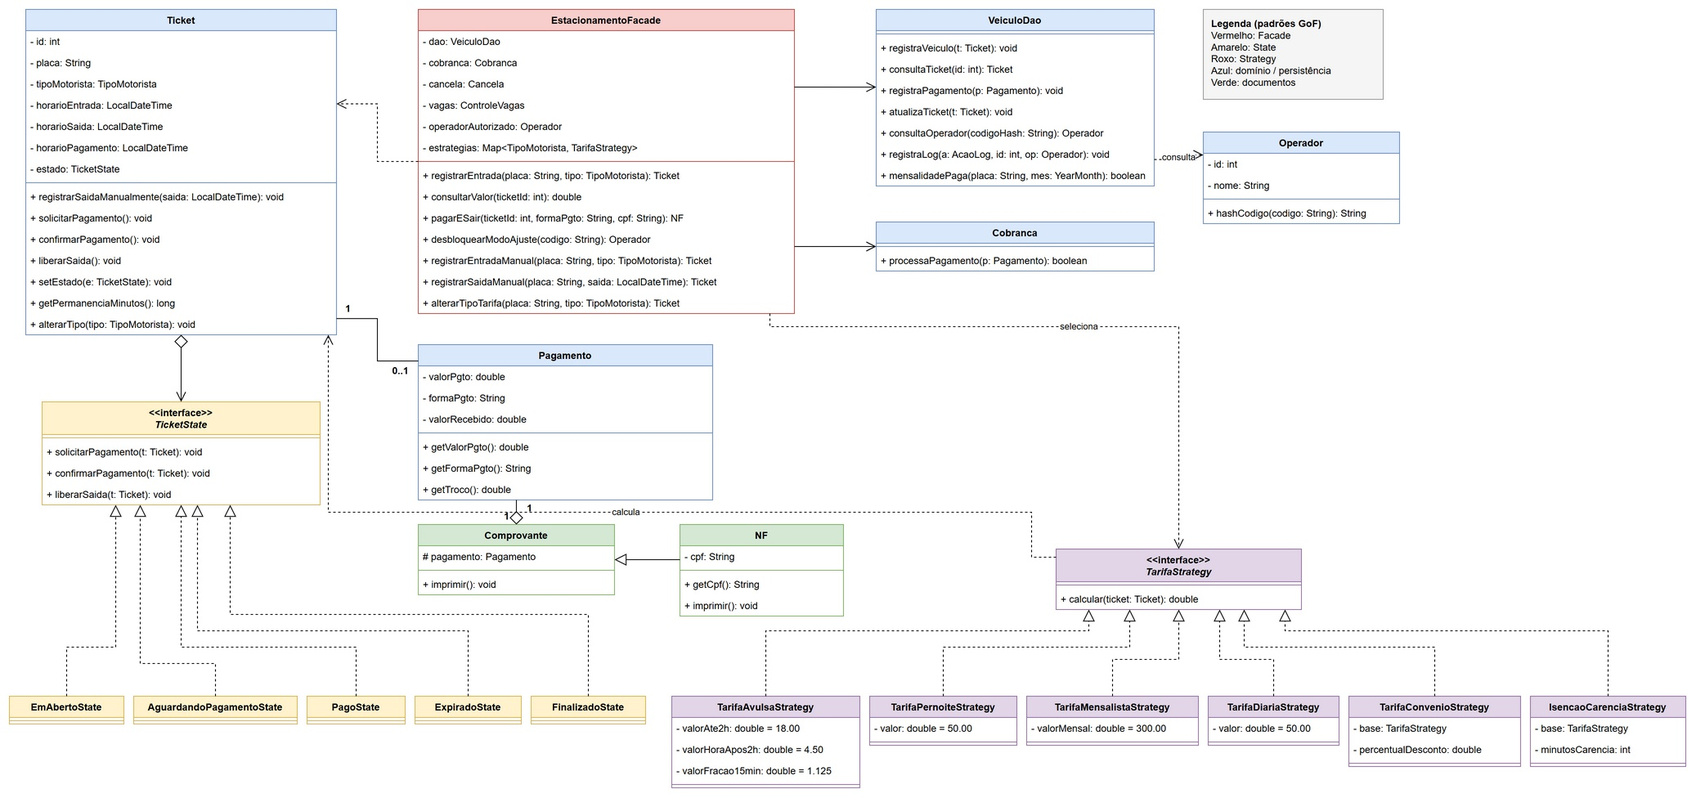
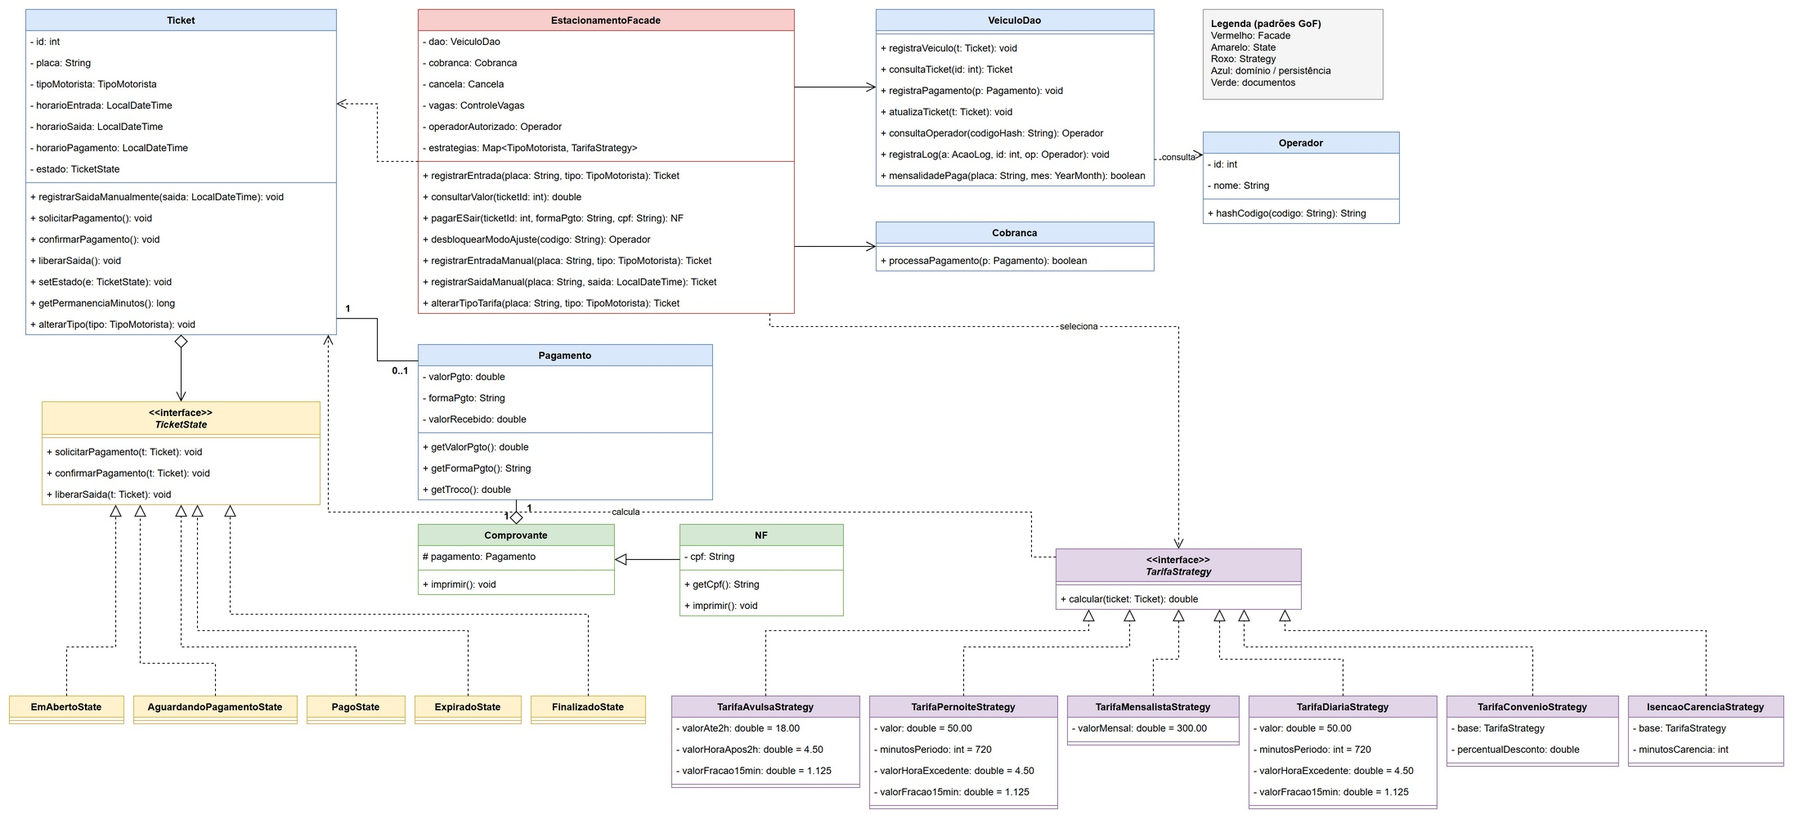
Excedente na diária e no pernoite e tela inicial no README
- Diária e pernoite: R$ 50,00 por até 12 h; o tempo que passar é cobrado
  a R$ 4,50/h em frações de 15 min (R$ 1,125 por fração)
- Atributo valorFracao15min nas duas tarifas (código e diagrama de classes)
- Testes do excedente (85 testes, todos aprovados)
- Documentação atualizada (RN-04, RN-13, CT-05, CT-21 e cobertura)
- README: imagem da tela inicial do totem no lugar do diagrama de casos de uso

diff --git a/src/test/java/estacionamento/TarifaAvulsaStrategyTest.java b/src/test/java/estacionamento/TarifaAvulsaStrategyTest.java
@@ -38,11 +38,12 @@ class TarifaAvulsaStrategyTest {
         assertEquals(esperado, comCarencia.calcular(TicketFactory.comPermanencia(minutos)), 0.001);
     }
 
-    @Test
-    @DisplayName("CT-05 - pernoite cobra R$ 50,00 (RN-04)")
-    void pernoite() {
-        assertEquals(50.00, new TarifaPernoiteStrategy()
-                .calcular(TicketFactory.comPermanencia(600, TipoMotorista.PERNOITE)), 0.001);
+    @ParameterizedTest(name = "pernoite: {0} min -> R$ {1}")
+    @CsvSource({ "30, 50.00", "600, 50.00", "720, 50.00", "721, 51.13", "736, 52.25", "780, 54.50", "960, 68.00" })
+    @DisplayName("CT-05 - pernoite: R$ 50,00 por 12 h + excedente em frações de 15 min (RN-04)")
+    void pernoite(long minutos, double esperado) {
+        assertEquals(esperado, new TarifaPernoiteStrategy()
+                .calcular(TicketFactory.comPermanencia(minutos, TipoMotorista.PERNOITE)), 0.001);
     }
 
     @Test
@@ -64,12 +65,12 @@ class TarifaAvulsaStrategyTest {
         assertThrows(IllegalArgumentException.class, () -> new TarifaConvenioStrategy(tarifa, 120));
     }
 
-    @Test
-    @DisplayName("Diária (06h-18h) cobra R$ 50,00")
-    void diaria() {
+    @ParameterizedTest(name = "diária: {0} min -> R$ {1}")
+    @CsvSource({ "30, 50.00", "600, 50.00", "720, 50.00", "721, 51.13", "735, 51.13", "736, 52.25", "780, 54.50", "960, 68.00" })
+    @DisplayName("CT-21 - diária: R$ 50,00 por 12 h + excedente em frações de 15 min (RN-13)")
+    void diaria(long minutos, double esperado) {
         TarifaStrategy diaria = new TarifaDiariaStrategy();
-        assertEquals(50.00, diaria.calcular(TicketFactory.comPermanencia(30, TipoMotorista.DIARIA)), 0.001);
-        assertEquals(50.00, diaria.calcular(TicketFactory.comPermanencia(600, TipoMotorista.DIARIA)), 0.001);
+        assertEquals(esperado, diaria.calcular(TicketFactory.comPermanencia(minutos, TipoMotorista.DIARIA)), 0.001);
     }
 
     @Test

diff --git a/src/main/java/estacionamento/domain/tarifa/TarifaDiariaStrategy.java b/src/main/java/estacionamento/domain/tarifa/TarifaDiariaStrategy.java
@@ -4,8 +4,9 @@ import estacionamento.domain.Ticket;
 import java.time.LocalTime;
 
 /**
- * Diaria: periodo diurno das 06:00 as 18:00 com valor fixo de R$ 50,00
- * (complementa o pernoite, que cobre o periodo noturno das 18:00 as 06:00).
+ * RN-13: diaria — periodo diurno das 06:00 as 18:00 (12 h) por R$ 50,00.
+ * O tempo que passar das 12 h e cobrado a R$ 4,50/h em fracoes de 15 min
+ * (R$ 1,125 por fracao iniciada), como o excedente da tarifa avulsa.
  */
 public class TarifaDiariaStrategy implements TarifaStrategy {
 
@@ -13,11 +14,18 @@ public class TarifaDiariaStrategy implements TarifaStrategy {
     public static final LocalTime FIM = LocalTime.of(18, 0);
 
     private final double valor = 50.00;
+    private final int minutosPeriodo = 12 * 60;
+    private final double valorHoraExcedente = 4.50;
+    private final double valorFracao15min = valorHoraExcedente / 4; // 1.125
 
     @Override
     public double calcular(Ticket ticket) {
-        return valor;
+        long excedente = ticket.getPermanenciaMinutos() - minutosPeriodo;
+        return TarifaStrategy.arredondar(valor + TarifaStrategy.excedenteEmFracoes(excedente, valorFracao15min));
     }
 
     public double getValor() { return valor; }
+    public int getMinutosPeriodo() { return minutosPeriodo; }
+    public double getValorHoraExcedente() { return valorHoraExcedente; }
+    public double getValorFracao15min() { return valorFracao15min; }
 }

diff --git a/src/main/java/estacionamento/domain/tarifa/TarifaPernoiteStrategy.java b/src/main/java/estacionamento/domain/tarifa/TarifaPernoiteStrategy.java
@@ -2,15 +2,26 @@ package estacionamento.domain.tarifa;
 
 import estacionamento.domain.Ticket;
 
-/** RN-04: pernoite (periodo noturno 18:00-06:00) com valor fixo de R$ 50,00. */
+/**
+ * RN-04: pernoite — periodo noturno das 18:00 as 06:00 (12 h) por R$ 50,00.
+ * O tempo que passar das 12 h e cobrado a R$ 4,50/h em fracoes de 15 min
+ * (R$ 1,125 por fracao iniciada), como o excedente da tarifa avulsa.
+ */
 public class TarifaPernoiteStrategy implements TarifaStrategy {
 
     private final double valor = 50.00;
+    private final int minutosPeriodo = 12 * 60;
+    private final double valorHoraExcedente = 4.50;
+    private final double valorFracao15min = valorHoraExcedente / 4; // 1.125
 
     @Override
     public double calcular(Ticket ticket) {
-        return valor;
+        long excedente = ticket.getPermanenciaMinutos() - minutosPeriodo;
+        return TarifaStrategy.arredondar(valor + TarifaStrategy.excedenteEmFracoes(excedente, valorFracao15min));
     }
 
     public double getValor() { return valor; }
+    public int getMinutosPeriodo() { return minutosPeriodo; }
+    public double getValorHoraExcedente() { return valorHoraExcedente; }
+    public double getValorFracao15min() { return valorFracao15min; }
 }

diff --git a/src/main/java/estacionamento/domain/tarifa/TarifaStrategy.java b/src/main/java/estacionamento/domain/tarifa/TarifaStrategy.java
@@ -13,4 +13,16 @@ public interface TarifaStrategy {
     static double arredondar(double valor) {
         return BigDecimal.valueOf(valor).setScale(2, RoundingMode.HALF_UP).doubleValue();
     }
+
+    /**
+     * Valor do tempo que passou do periodo coberto pela tarifa, cobrado em
+     * fracoes de 15 minutos (cada fracao iniciada custa {@code valorFracao15min}).
+     */
+    static double excedenteEmFracoes(long minutosExcedentes, double valorFracao15min) {
+        if (minutosExcedentes <= 0) {
+            return 0.0;
+        }
+        long fracoes = (long) Math.ceil(minutosExcedentes / 15.0);
+        return fracoes * valorFracao15min;
+    }
 }

diff --git a/docs/Documentacao_Monolitico_Estacionamento.md b/docs/Documentacao_Monolitico_Estacionamento.md
@@ -71,7 +71,7 @@ O sistema controla a permanência de veículos em um estacionamento. Na entrada,
 
 ### 2.2 Dentro do escopo (In Scope)
 - Registro de entrada do veículo com horário (ticket).
-- Cálculo do valor por tarifa: avulso (2 primeiras horas + adicional por hora/fração), diária (06h–18h), pernoite (18h–06h) e mensalista (uma vez por mês).
+- Cálculo do valor por tarifa: avulso (2 primeiras horas + adicional por hora/fração), diária (06h–18h) e pernoite (18h–06h), cada uma cobrindo 12 h com excedente em frações de 15 min, e mensalista (uma vez por mês).
 - Registro de pagamento em dinheiro (valor devido, valor recebido e troco).
 - Emissão de comprovante e de nota fiscal (com CPF, quando informado).
 - Liberação da saída após pagamento.
@@ -176,7 +176,7 @@ O sistema controla a permanência de veículos em um estacionamento. Na entrada,
 - **Critérios de aceite:**
   - [ ] Até 2 h → R$ 18,00.
   - [ ] 2 h 30 min → R$ 18,00 + 2 frações = R$ 20,25.
-  - [ ] Pernoite → R$ 50,00; diária → R$ 50,00.
+  - [ ] Pernoite e diária até 12 h → R$ 50,00; 16 h → R$ 50,00 + 16 frações = R$ 68,00.
   - [ ] Mensalista → R$ 300,00 na primeira saída do mês; R$ 0,00 nas demais saídas do mesmo mês.
 - **Requisitos relacionados:** RN-01 a RN-07, RF-08
 
@@ -417,7 +417,7 @@ O sistema controla a permanência de veículos em um estacionamento. Na entrada,
 | RN-01 | Tarifa avulsa: R$ 18,00 para permanência de até 2 horas. | `Tarifa.avulso = 18.00` (premissa: cobre 2 h) | RF-02, RF-08 |
 | RN-02 | Após 2 horas: R$ 4,50 por hora adicional, cobrada em frações de 15 minutos (R$ 1,125 por fração iniciada; total arredondado a 2 casas). | `valorHoraApos2h = 4.50`, `valorFracao15min` | RF-02 |
 | RN-03 | Mensalista: R$ 300,00 pagos uma vez por mês — cobrados na primeira saída do mês; nas demais saídas do mesmo mês não há cobrança, e o mensalista não paga tarifa avulsa. | `Tarifa.mensalista = 300.00` | RF-08 |
-| RN-04 | Pernoite: R$ 50,00 fixos para o período noturno (18:00h–06:00h). O tipo é escolhido pelo motorista na entrada (ou corrigido pelo Operador de Caixa, RF-11); o sistema não confere o horário. | `Tarifa.pernoite = 50.00` | RF-08 |
+| RN-04 | Pernoite: R$ 50,00 para o período noturno (18:00h–06:00h, 12 h); acima de 12 h, o excedente é cobrado a R$ 4,50/h em frações de 15 min (R$ 1,125 por fração iniciada). O tipo é escolhido pelo motorista na entrada (ou corrigido pelo Operador de Caixa, RF-11); o sistema não confere o horário. | `Tarifa.pernoite = 50.00` | RF-08 |
 | RN-05 | A cancela só é liberada se o ticket estiver **Pago** e dentro do prazo de saída. Tickets Em Aberto, Aguardando Pagamento ou Expirados não liberam a saída. | Padrão State; UC "Liberar Saída" | RF-06 |
 | RN-06 | Após o pagamento, o motorista tem uma tolerância para sair de 15 min; excedida, o ticket fica **Expirado** e é cobrado o período adicional. | Padrão State | RF-06 |
 | RN-07 | Isenção por carência: permanência até 15 minutos não é cobrada (vale para as tarifas avulsa e convênio). | Padrão Strategy (`IsencaoCarenciaStrategy`) | RF-02 |
@@ -426,7 +426,7 @@ O sistema controla a permanência de veículos em um estacionamento. Na entrada,
 | RN-10 | O horário de saída não pode ser anterior ao horário de entrada; um veículo não pode ter dois tickets em aberto. | `registrarSaidaManualmente`, `setHorarioSaida` | RF-01, RF-07, RF-09 |
 | RN-11 | Um ticket só pode ser pago uma vez. | Padrão State (`PagoState` recusa novo pagamento) | RF-03 |
 | RN-12 | Ações do Operador de Caixa (registrar entrada sem ticket, ajustar o horário de saída e alterar a tarifa) só podem ser feitas no totem desbloqueado por código de autorização válido. O horário de entrada nunca é alterado pelo operador. O modo de ajuste é encerrado ao fim de cada ação, cada ação é registrada em log com operador, ticket, ação e data/hora, e o pagamento é sempre feito pelo motorista no totem — o ajuste não libera a saída. | UC-05, UC-06 (`<<extend>>`) e UC-07; ator Operador de Caixa | RF-07, RF-09, RF-10, RF-11 |
-| RN-13 | Diária: R$ 50,00 fixos para o período diurno (06:00h–18:00h). O tipo é escolhido pelo motorista na entrada (ou corrigido pelo Operador de Caixa, RF-11); o sistema não confere o horário. | `TarifaDiariaStrategy` | RF-08 |
+| RN-13 | Diária: R$ 50,00 para o período diurno (06:00h–18:00h, 12 h); acima de 12 h, o excedente é cobrado a R$ 4,50/h em frações de 15 min (R$ 1,125 por fração iniciada). O tipo é escolhido pelo motorista na entrada (ou corrigido pelo Operador de Caixa, RF-11); o sistema não confere o horário. | `TarifaDiariaStrategy` | RF-08 |
 | RN-14 | O pagamento é aceito somente em dinheiro; o sistema não usa APIs externas (cartão/PIX). Valor inserido menor que o devido é recusado; valor maior gera troco. | Decisão de projeto; `Cobranca` | RF-03 |
 
 ---
@@ -734,12 +734,18 @@ classDiagram
     }
     class TarifaPernoiteStrategy {
         -double valor = 50.00
+        -int minutosPeriodo = 720
+        -double valorHoraExcedente = 4.50
+        -double valorFracao15min = 1.125
     }
     class TarifaMensalistaStrategy {
         -double valorMensal = 300.00
     }
     class TarifaDiariaStrategy {
         -double valor = 50.00
+        -int minutosPeriodo = 720
+        -double valorHoraExcedente = 4.50
+        -double valorFracao15min = 1.125
     }
     class TarifaConvenioStrategy {
         -double percentualDesconto
@@ -879,7 +885,7 @@ sequenceDiagram
 
 | Padrão GoF | Categoria | Problema que resolve no projeto | Classes / arquivos envolvidos |
 |---|---|---|---|
-| Strategy | Comportamental | Elimina cadeias de `if/else` no cálculo do valor por tempo e perfil; novas tarifas sem alterar o caixa. | `TarifaStrategy`, `TarifaAvulsaStrategy`, `TarifaPernoiteStrategy`, `TarifaMensalistaStrategy`, `TarifaDiariaStrategy` (R$ 50, 06h–18h), `TarifaConvenioStrategy`, `IsencaoCarenciaStrategy` |
+| Strategy | Comportamental | Elimina cadeias de `if/else` no cálculo do valor por tempo e perfil; novas tarifas sem alterar o caixa. | `TarifaStrategy`, `TarifaAvulsaStrategy`, `TarifaPernoiteStrategy`, `TarifaMensalistaStrategy`, `TarifaDiariaStrategy` (R$ 50 por 12 h + excedente), `TarifaConvenioStrategy`, `IsencaoCarenciaStrategy` |
 | State | Comportamental | Garante transições rígidas do ticket e impede a abertura da cancela em estados inválidos. | `Ticket`, `TicketState`, `EmAbertoState`, `AguardandoPagamentoState`, `PagoState`, `ExpiradoState`, `FinalizadoState` |
 | Facade | Estrutural | Oferece uma única operação para totem/app/caixa, escondendo a coordenação de ticket, tarifa, pagamento, NF, cancela e vagas. | `EstacionamentoFacade`, `VeiculoDao`, `Cobranca`, `NF`, `Cancela`, `ControleVagas` |
 
@@ -1216,7 +1222,7 @@ public class EstacionamentoFacade {
 
 | Classe testada | Classe de teste (JUnit) | Cenários cobertos | Requisito(s) / Regra(s) relacionado(s) | Resultado |
 |---|---|---|---|---|
-| `TarifaAvulsaStrategy` (e demais estratégias) — cálculo do valor | `TarifaAvulsaStrategyTest` | `@ParameterizedTest` com `@CsvSource`: 30 min → 18,00; 120 min (limite) → 18,00; 121 min → 19,13; 150 min → 20,25; 180 min → 22,50; carência de 10 min → 0,00; pernoite e diária → 50,00; mensalista → 300,00 / 0,00 com o mês pago; convênio −10% | RF-02, RF-08, RN-01 a RN-04, RN-07, RN-08, RN-13, RNF-02 | Aprovado |
+| `TarifaAvulsaStrategy` (e demais estratégias) — cálculo do valor | `TarifaAvulsaStrategyTest` | `@ParameterizedTest` com `@CsvSource`: 30 min → 18,00; 120 min (limite) → 18,00; 121 min → 19,13; 150 min → 20,25; 180 min → 22,50; carência de 10 min → 0,00; pernoite e diária: 720 min → 50,00, 721 min → 51,13, 960 min (16 h) → 68,00; mensalista → 300,00 / 0,00 com o mês pago; convênio −10% | RF-02, RF-08, RN-01 a RN-04, RN-07, RN-08, RN-13, RNF-02 | Aprovado |
 | `Ticket` + estados — ciclo de vida | `TicketStateTest` | Novo ticket em `EmAbertoState`; liberar saída em aberto lança `IllegalStateException` (`assertThrows`); fluxo completo até `FinalizadoState` (`assertInstanceOf`); pagar duas vezes é recusado; saída após tolerância leva a `ExpiradoState`; saída anterior à entrada é recusada | RF-06, RF-07, RN-05, RN-06, RN-10, RN-11 | Aprovado |
 | `EstacionamentoFacade` — orquestração | `EstacionamentoFacadeTest` | Pagamento aprovado: `verify(dao).registraPagamento`, `verify(cancela).abrir()`; pagamento recusado: `verify(cancela, never()).abrir()` e ticket não fica Pago; estratégia correta escolhida pelo perfil; ações do operador (código inválido, entrada manual, ajuste de saída, alteração de tarifa). `@Mock`, `@InjectMocks`, `@BeforeEach` | RF-03, RF-04, RF-06, RF-07, RF-09 a RF-11, RN-05, RN-09, RN-12 | Aprovado |
 | `NF` — nota fiscal | `NFTest` | NF com CPF válido; NF sem CPF (CPF `null` permitido); CPF inválido lança exceção; valores herdados do pagamento; dinheiro com troco; forma diferente de dinheiro recusada | RF-04, RN-09, RN-14, RNF-L02 | Aprovado |
@@ -1249,19 +1255,19 @@ class TicketStateTest {
 }
 ```
 
-**Execução:** `mvn test` (ou pela IDE: *Run Tests*). **Resultado em 20/11/2026: 72 testes, 72 aprovados, 0 reprovados** (`EstacionamentoFacadeTest` 21, `TarifaAvulsaStrategyTest` 19, `TicketStateTest` 16, `NFTest` 11, `VeiculoDaoTest` 5). **Cobertura (JaCoCo 0.8.13, relatório em `target/site/jacoco/index.html`):**
+**Execução:** `mvn test` (ou pela IDE: *Run Tests*). **Resultado em 21/11/2026: 85 testes, 85 aprovados, 0 reprovados** (`EstacionamentoFacadeTest` 21, `TarifaAvulsaStrategyTest` 32, `TicketStateTest` 16, `NFTest` 11, `VeiculoDaoTest` 5). **Cobertura (JaCoCo 0.8.13, relatório em `target/site/jacoco/index.html`):**
 
 | Pacote | Linhas cobertas | Desvios (if/else) cobertos |
 |---|---|---|
 | `domain` | 90% (169/188) | 77% |
 | `domain.estado` | 88% (57/65) | 88% |
-| `domain.tarifa` | 82% (37/45) | 90% |
+| `domain.tarifa` | 80% (47/59) | 92% |
 | `facade` | 86% (114/133) | 75% |
 | `dao` | 82% (143/174) | 94% |
 | `service` | 66% (21/32) | 57% |
 | `ui` (telas JavaFX) | 0% (sem testes automatizados; verificadas pelos casos CT-XX no totem) | 0% |
 
-Classes de domínio (`domain`, `domain.estado` e `domain.tarifa`): **88% das linhas (263/298)** — atende ao RNF-06 (≥ 70%). Sem a camada de telas, a cobertura do sistema é de 85% das linhas.
+Classes de domínio (`domain`, `domain.estado` e `domain.tarifa`): **88% das linhas (273/312)** — atende ao RNF-06 (≥ 70%). Sem a camada de telas, a cobertura do sistema é de 85% das linhas.
 
 ### 7.2 Ambientes de teste
 
@@ -1282,7 +1288,7 @@ Classes de domínio (`domain`, `domain.estado` e `domain.tarifa`): **88% das lin
 | CT-02 | RF-01, RN-10 | Entrada duplicada | Veículo já com ticket aberto | 1. Informar a mesma placa | Novo ticket recusado | A executar |
 | CT-03 | RF-02, RN-01 | Avulso até 2 h (inclusive limite de 120 min) | Ticket com 30 min / 120 min | 1. Solicitar pagamento | R$ 18,00 | A executar |
 | CT-04 | RF-02, RN-02 | Avulso acima de 2 h | Ticket com 150 min / 180 min | 1. Solicitar pagamento | R$ 20,25 / R$ 22,50 | A executar |
-| CT-05 | RF-08, RN-04 | Pernoite | Ticket de pernoite | 1. Solicitar pagamento | R$ 50,00 | A executar |
+| CT-05 | RF-08, RN-04 | Pernoite | Ticket de pernoite com 10 h / 16 h | 1. Solicitar pagamento | R$ 50,00 / R$ 68,00 (excedente de 4 h em frações de 15 min) | A executar |
 | CT-06 | RF-08, RN-03 | Mensalista | Motorista mensalista com a mensalidade do mês já paga | 1. Solicitar saída | Sem cobrança (R$ 0,00); saída liberada | A executar |
 | CT-07 | RF-02, RN-07 | Isenção por carência | Ticket dentro da carência | 1. Solicitar pagamento | R$ 0,00 | A executar |
 | CT-08 | RF-03, RF-04, RF-05, RF-06 | Pagamento aprovado | Ticket Aguardando Pagamento | 1. Pagar 2. Informar CPF | Comprovante e NF emitidos; ticket Pago; cancela aberta | A executar |
@@ -1298,7 +1304,7 @@ Classes de domínio (`domain`, `domain.estado` e `domain.tarifa`): **88% das lin
 | CT-18 | RF-03, RF-04, RF-05 | Pagamento em dinheiro no totem com troco | Ticket Aguardando Pagamento com valor de R$ 20,25 | 1. Motorista seleciona a forma de pagamento "Dinheiro" no totem 2. Insere R$ 50,00 | Troco de R$ 29,75 entregue; pagamento registrado; ticket Pago; comprovante e NF emitidos | A executar |
 | CT-19 | RF-10, RN-12 | Código de autorização inválido | Totem em operação normal | 1. Informar um código de autorização inválido no totem | Mensagem de erro; totem continua bloqueado para ajustes; nenhum horário alterado | A executar |
 | CT-20 | RF-11, RN-12 | Alteração de tarifa pelo operador | Ticket avulso Em Aberto; operador com código válido | 1. Operador informa o código 2. Digita a placa 3. Escolhe a nova tarifa | Horário de entrada exibido e inalterado; tarifa alterada; valor recalculado; registro `ALTERACAO_TARIFA` em log; totem bloqueado | A executar |
-| CT-21 | RF-08, RN-13 | Diária | Ticket de diária | 1. Solicitar pagamento | R$ 50,00 | A executar |
+| CT-21 | RF-08, RN-13 | Diária | Ticket de diária com 10 h / 16 h | 1. Solicitar pagamento | R$ 50,00 / R$ 68,00 (excedente de 4 h em frações de 15 min) | A executar |
 | CT-22 | RF-08, RN-03 | Mensalidade uma vez por mês | Mensalista sem pagamento no mês | 1. Primeira saída do mês 2. Nova entrada e saída no mesmo mês | 1ª saída: R$ 300,00; 2ª saída: R$ 0,00 | A executar |
 | CT-23 | RF-03, RN-14 | Somente dinheiro | Ticket Aguardando Pagamento | 1. Tentar pagar com forma diferente de dinheiro | Pagamento recusado; o totem oferece apenas a inserção de notas | A executar |
 
@@ -1326,7 +1332,7 @@ Classes de domínio (`domain`, `domain.estado` e `domain.tarifa`): **88% das lin
 | RN-07 | Carência | CT-07 | `domain/tarifa/IsencaoCarenciaStrategy.java` | Concluído | Aprovado (JUnit) |
 | RN-11 | Pagamento único | CT-11 | `domain/estado/PagoState.java` | Concluído | Aprovado (JUnit) |
 | RN-03 | Mensalidade uma vez por mês | CT-06, CT-22 | `domain/tarifa/TarifaMensalistaStrategy.java`, `dao/VeiculoDao.java` | Concluído | Aprovado (JUnit) |
-| RN-13 | Diária R$ 50 (06h–18h) | CT-21 | `domain/tarifa/TarifaDiariaStrategy.java` | Concluído | Aprovado (JUnit) |
+| RN-13 | Diária R$ 50 (06h–18h) + excedente | CT-21 | `domain/tarifa/TarifaDiariaStrategy.java` | Concluído | Aprovado (JUnit) |
 | RN-14 | Somente dinheiro | CT-18, CT-23 | `domain/Pagamento.java`, `service/Cobranca.java` | Concluído | Aprovado (JUnit) |
 | RN-12 | Ações do operador só com código de autorização, com log; entrada nunca alterada; pagamento sempre pelo motorista | CT-15, CT-16, CT-19, CT-20 | `facade/EstacionamentoFacade.java` | Concluído | Aprovado (JUnit) |
 | RNF-02 | Corretude monetária | CT-03, CT-04 | `domain/tarifa/*Strategy.java` | Concluído | Aprovado (JUnit) |
@@ -1345,7 +1351,7 @@ Classes de domínio (`domain`, `domain.estado` e `domain.tarifa`): **88% das lin
 |---|---|
 | Ticket | Registro da permanência de um veículo, com horário de entrada e saída. |
 | Avulso | Motorista sem contrato, que paga pelo tempo de permanência. |
-| Pernoite | Permanência no período noturno (18h–06h), com tarifa fixa de R$ 50,00. |
+| Pernoite | Permanência no período noturno (18h–06h): R$ 50,00 por até 12 h, mais o excedente em frações de 15 min. |
 | Mensalista | Motorista com contrato mensal de valor fixo. |
 | Fração | Período de 15 minutos usado para cobrar o tempo após as 2 primeiras horas. |
 | Carência | Tempo inicial isento de cobrança. |
@@ -1354,7 +1360,7 @@ Classes de domínio (`domain`, `domain.estado` e `domain.tarifa`): **88% das lin
 | Operador de Caixa | Funcionário que desbloqueia o totem com o seu código de autorização para registrar entradas sem ticket, ajustar o horário de saída e alterar a tarifa. Não altera o horário de entrada e não recebe pagamentos. |
 | Código de autorização | Código pessoal do Operador de Caixa que libera o modo de ajuste do totem, como a senha de supervisor usada em caixas de autoatendimento. |
 | Modo de ajuste | Estado temporário do totem, liberado pelo código de autorização, em que o operador registra entrada sem ticket, ajusta a saída ou altera a tarifa; encerra-se ao fim de cada ação. |
-| Diária | Permanência no período diurno (06h–18h), com tarifa fixa de R$ 50,00. |
+| Diária | Permanência no período diurno (06h–18h): R$ 50,00 por até 12 h, mais o excedente em frações de 15 min. |
 | `<<extend>>` | Relação de caso de uso em que o caso estendido (ex.: saída manual) só ocorre em condições específicas, acrescentando comportamento ao caso base. |
 | NF | Nota fiscal emitida ao final do pagamento. |
 | Monólito | Aplicação em que todas as camadas rodam em um único processo/executável. |

diff --git a/README.md b/README.md
@@ -26,15 +26,19 @@ em um único processo), aplicando os padrões GoF **Facade**, **State** e **Stra
 O Operador de Caixa usa o **mesmo totem**, desbloqueado por um código de autorização. O totem volta a
 ficar bloqueado após cada ação, e toda ação é registrada em log (operador, ticket, ação e data/hora).
 
-![Diagrama de casos de uso](docs/imagens/CASODEUSOMONO.jpg)
+## Tela inicial do totem
+
+<p align="center">
+  <img src="docs/imagens/TelaInicialTotem.png" alt="Tela inicial do totem de estacionamento com a tabela de preços" width="320">
+</p>
 
 ## Tabela de preços
 
 | Tarifa | Valor |
 |---|---|
 | Avulso | R$ 18,00 até 2 h; depois R$ 4,50/h cobrados em frações de 15 min (R$ 1,125 por fração) |
-| Diária (06h–18h) | R$ 50,00 |
-| Pernoite (18h–06h) | R$ 50,00 |
+| Diária (06h–18h) | R$ 50,00 por até 12 h; o que passar é cobrado a R$ 4,50/h em frações de 15 min |
+| Pernoite (18h–06h) | R$ 50,00 por até 12 h; o que passar é cobrado a R$ 4,50/h em frações de 15 min |
 | Mensalista | R$ 300,00 uma vez por mês (cobrado na primeira saída do mês) |
 | Convênio | 10% de desconto sobre a tarifa avulsa |
 | Carência | Permanência de até 15 min não é cobrada (avulso e convênio) |
@@ -75,7 +79,7 @@ O banco de dados é criado automaticamente na pasta `dados/` na primeira execuç
 mvn test
 ```
 
-- **72 testes** em 5 classes: `TarifaAvulsaStrategyTest`, `TicketStateTest`, `EstacionamentoFacadeTest`,
+- **85 testes** em 5 classes: `TarifaAvulsaStrategyTest`, `TicketStateTest`, `EstacionamentoFacadeTest`,
   `NFTest` e `VeiculoDaoTest` — todos aprovados.
 - Cobertura (JaCoCo): **88% das linhas** nas classes de domínio. Relatório gerado em
   `target/site/jacoco/index.html`.
